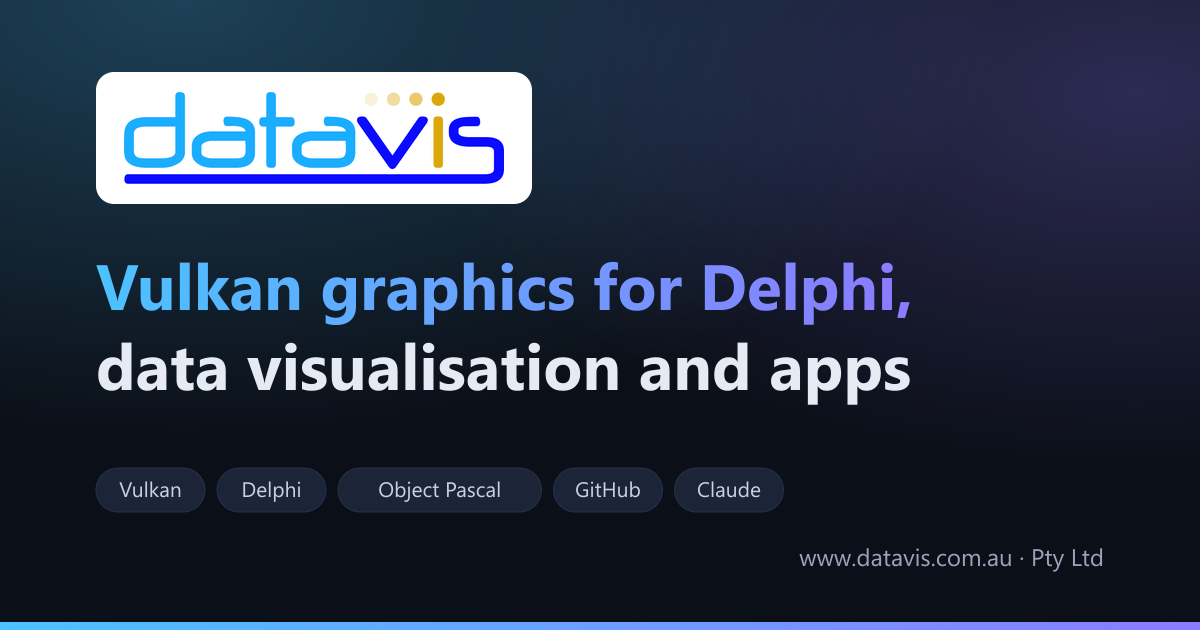
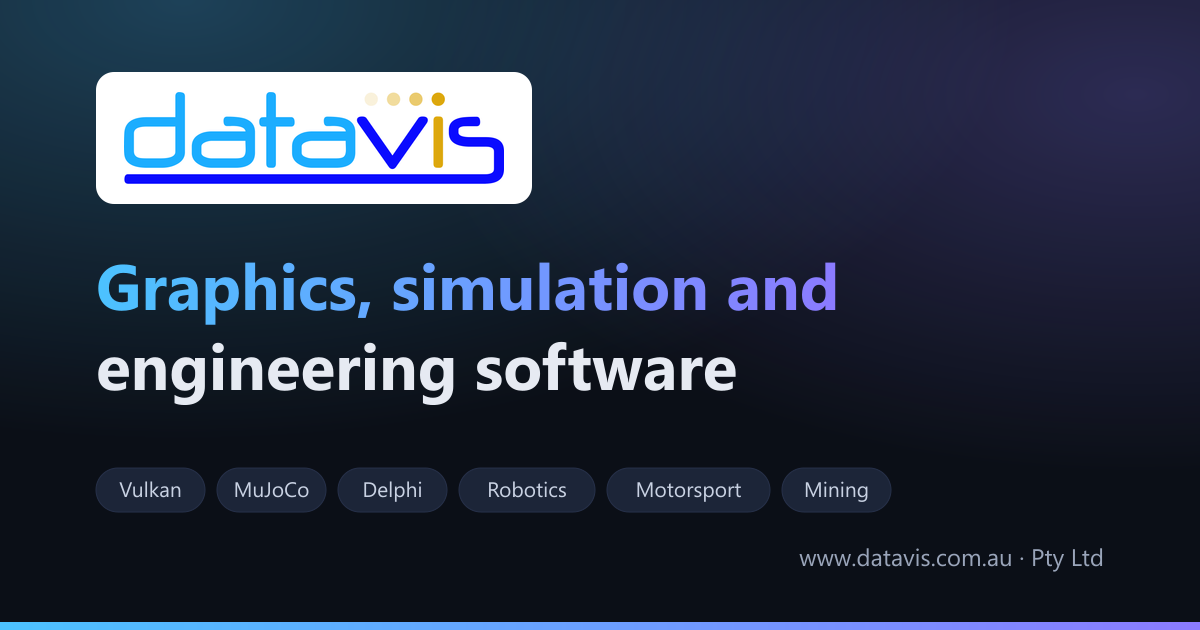
Make the home page cover every project area
- Hero introduces all four areas, linking to each group, with project counts
- "What we work on" lists each group with its projects, WIP and
  commercial badges
- Broader How we work, Built with and About text; site description,
  tagline and link-preview card no longer Vulkan-only

diff --git a/src/styles/global.css b/src/styles/global.css
@@ -122,6 +122,17 @@ a.card:hover { border-color: var(--accent); transform: translateY(-2px); }
 .pill { display: inline-flex; align-items: center; gap: 0.35rem; font: 600 0.72rem/1 var(--mono); text-transform: uppercase; letter-spacing: 0.06em; padding: 0.35rem 0.55rem; border-radius: 999px; border: 1px solid var(--line); color: var(--muted); width: fit-content; }
 .pill.public { color: var(--ok); border-color: color-mix(in srgb, var(--ok) 40%, transparent); }
 .pill.private { color: var(--warn); border-color: color-mix(in srgb, var(--warn) 40%, transparent); }
+.hero .lead a { color: var(--text); text-decoration-color: var(--accent); }
+.stats { display: flex; flex-wrap: wrap; gap: 2rem; margin: 2.2rem 0 0; }
+.stats div { display: flex; flex-direction: column-reverse; }
+.stats dt { color: var(--muted); font-size: 0.85rem; }
+.stats dd { margin: 0; font: 700 1.8rem/1.1 var(--font); }
+.areas { grid-template-columns: repeat(auto-fill, minmax(min(100%, 340px), 1fr)); }
+.card.area h3 a { color: var(--text); text-decoration: none; }
+.card.area h3 a:hover { color: var(--accent); }
+.proj-list { list-style: none; margin: 0.2rem 0 0.4rem; padding: 0; display: flex; flex-direction: column; gap: 0.35rem; }
+.proj-list li { display: flex; align-items: center; gap: 0.5rem; flex-wrap: wrap; }
+.proj-list a { font-weight: 600; }
 .pill.wip { color: var(--accent-ink); background: var(--warn); border-color: var(--warn); }
 .pills { display: flex; flex-wrap: wrap; gap: 0.4rem; }
 .side .refs li { display: flex; flex-direction: column; gap: 0.1rem; margin-bottom: 0.35rem; }

diff --git a/src/site.config.ts b/src/site.config.ts
@@ -8,9 +8,9 @@ export const site = {
   legalName: 'Datavis Pty Ltd',
   // Fill in your ABN; leave '' to hide it.
   abn: '80 094 434 849',
-  tagline: 'Graphics, data visualisation and developer tools',
+  tagline: 'Graphics, simulation and engineering software',
   description:
-    'Datavis Pty Ltd builds Vulkan graphics components for Delphi, data visualisation software and mobile apps.',
+    'Datavis Pty Ltd builds Vulkan graphics components for Delphi, MuJoCo simulation and robot skill tools, motorsport apps and data tools, and drill and blast software.',
   url: 'https://www.datavis.com.au',
   country: 'Australia',
   // Suggested: create support@ and privacy@ aliases that forward to your inbox.
